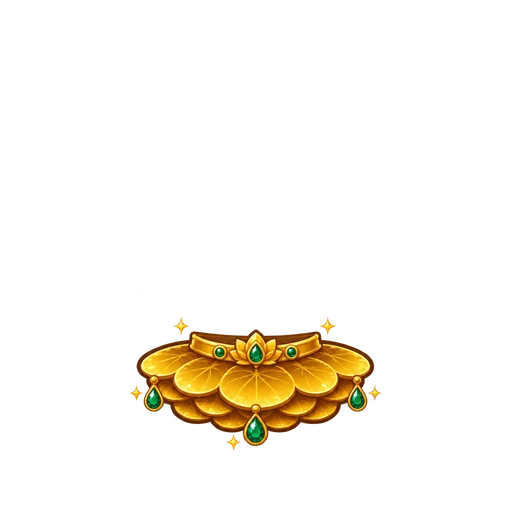
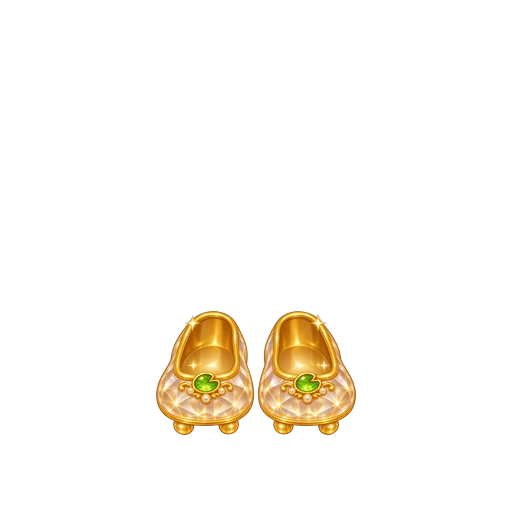
황금 꿀꿀 바지·연잎 치마를 황금 모피 부츠·수정구슬 구두로 교체
- 새 부위 '발'(feet): 상의·하의·한 벌과 함께 신을 수 있음
- 구두는 발 크기에 맞춰 양발에 한 짝씩, 옷 아래에 그리고 앞코만 옷 밑으로 살짝 보이게
- 걸을 때 두 발이 번갈아 들리고 구두도 같이 움직임

Claude-Session: https://claude.ai/code/session_015t7mwg1NEPVKJN39Z7Zz4S

Changed region(s): [[0.25, 0.5938, 0.75, 0.875]]

diff --git a/js/capy.js b/js/capy.js
@@ -51,8 +51,9 @@ let rareN = 0;
 // 가슴에 다는 상징(나머지는 손에 든다)
 export const PIN_CHEST = new Set(['👑', '🥇', '🌈', '🌕', '🌙', '⚓', '🧊', '🫧', '🐚', '🌼', '🪷', '🌻']);
 const RARE_BACK = new Set([17, 19, 27, 28]); // 등 뒤에 그리는 것(날개·가시 망토·꼬리)
-const RARE_BODY = new Set([5, 8, 9, 12, 13, 18, 20, 22, 24, 26]); // 몸에 입는 것(상의·하의·한 벌): 몸 위, 얼굴 아래에 그려서 입은 것처럼 보이게 한다
-const RARE_FIT = { 0: [5, 0, 1], 4: [3, 0, 1], 14: [7, 0, 1], 25: [5, 0, 1], 5: [0, 30, 0.72], 7: [0, 0, 0.72], 10: [0, -25, 0.9], 11: [0, -17, 1], 13: [0, -7, 0.86], 15: [0, -8, 1], 17: [0, -10, 1], 21: [0, -14, 1], 18: [0, -2, 0.95], 20: [0, 6, 1], 26: [0, 6, 1] };
+const RARE_SHOE = new Set([12, 13]); // 발에 신는 것(구두): 발 위에 따로 그린다
+const RARE_BODY = new Set([5, 8, 9, 18, 20, 22, 24, 26]); // 몸에 입는 것(상의·하의·한 벌): 몸 위, 얼굴 아래에 그려서 입은 것처럼 보이게 한다
+const RARE_FIT = { 0: [5, 0, 1], 4: [3, 0, 1], 14: [7, 0, 1], 25: [5, 0, 1], 5: [0, 30, 0.72], 7: [0, 0, 0.72], 10: [0, -25, 0.9], 11: [0, -17, 1], 15: [0, -8, 1], 17: [0, -10, 1], 21: [0, -14, 1], 18: [0, -2, 0.95], 20: [0, 6, 1], 26: [0, 6, 1] };
 const RARE_HOLD = new Set([0, 4, 14, 25]); // 손에 쥐는 것: 자루 위에 손을 한 번 더 그려서 쥔 것처럼 보이게 한다
 export function capy(o = {}) {
   const c = COLORS[o.color] || COLORS.brown;
@@ -65,9 +66,14 @@ export function capy(o = {}) {
     : `<text x="98" y="115" font-size="23" text-anchor="middle" transform="rotate(-12 98 108)">${o.pin}</text><ellipse cx="92" cy="109" rx="5.5" ry="4.5" fill="${c.body}"/>`;
   if (o.head) return `<svg xmlns="http://www.w3.org/2000/svg" viewBox="0 -22 120 112">${head}</svg>`;
   const cl = o.top || o.bottom ? wearSvg(o.top, o.bottom) : { under: '', top: '', over: '' };
-  const body = `<ellipse cx="45" cy="128" rx="12" ry="6.5" fill="${c.dark}"/><ellipse cx="75" cy="128" rx="12" ry="6.5" fill="${c.dark}"/>
+  // 황금 구두: 한 짝 그림을 왼발에, 뒤집어서 오른발에 신긴다. 발과 같은 무리(cf-l·cf-r)라 걸을 때 발과 함께 움직이고, 옷보다 아래에 그려서 옷을 덮지 않는다
+  const shoeK = o.rare && o.rare.i != null && !back ? (o.rare.list || [o.rare.i]).slice(0, 6).find(k => RARE_SHOE.has(k)) : undefined;
+  // 옷 밑으로 앞코가 살짝 나오도록: 구두 전체는 옷 아래에 그리고, 앞코(아래쪽)만 옷 위에 한 번 더 그린다
+  const shoeImg = (y0) => `<g class="cf-l"><image href="img/rare/${shoeK}f.webp" x="32" y="117" width="26" height="22" preserveAspectRatio="none"${y0 ? ` clip-path="url(#${y0})"` : ''}/></g><g class="cf-r"><image href="img/rare/${shoeK}f.webp" x="62" y="117" width="26" height="22" preserveAspectRatio="none" transform="matrix(-1 0 0 1 150 0)"${y0 ? ` clip-path="url(#${y0})"` : ''}/></g>`;
+  const toeId = shoeK == null ? '' : 'st' + (++rareN), shoe = shoeK == null ? '' : shoeImg(''), shoeToe = shoeK == null ? '' : `<defs><clipPath id="${toeId}" clipPathUnits="userSpaceOnUse"><rect x="-20" y="130.5" width="200" height="20"/></clipPath></defs>${shoeImg(toeId)}`;
+  const body = `<g class="cf-l"><ellipse cx="45" cy="128" rx="12" ry="6.5" fill="${c.dark}"/></g><g class="cf-r"><ellipse cx="75" cy="128" rx="12" ry="6.5" fill="${c.dark}"/></g>
     <rect x="31" y="76" width="58" height="50" rx="24" fill="${c.body}"/>
-    ${back ? `<ellipse cx="60" cy="118" rx="6" ry="5" fill="${c.dark}"/>` : `<ellipse cx="60" cy="105" rx="17" ry="15" fill="${c.light}"/>`}${cl.under}
+    ${back ? `<ellipse cx="60" cy="118" rx="6" ry="5" fill="${c.dark}"/>` : `<ellipse cx="60" cy="105" rx="17" ry="15" fill="${c.light}"/>`}${shoe}${cl.under}
     <ellipse cx="29" cy="99" rx="8" ry="12" fill="${c.body}" transform="rotate(14 29 99)"/><ellipse cx="91" cy="99" rx="8" ry="12" fill="${c.body}" transform="rotate(-14 91 99)"/>${cl.top}${cl.over}`;
   // 초레어 보물(친목회 단짝 100점): 동물마다 다른 금빛 장비(모자·안경·상의·하의·한 벌·도구·날개…)를 걸친다. 몸 뒤로 은은한 금빛이 퍼지고 별이 반짝인다
   // 그림은 캐릭터 기준 틀(가로 1024 중 캐릭터 547×720)에 맞춰 그려져 있어 같은 자리에 겹치면 된다. RARE_FIT = 조금씩 어긋난 것만 [옆, 아래, 크기] 보정
@@ -75,9 +81,9 @@ export function capy(o = {}) {
   if (o.rare && o.rare.i != null && !back) { const gid = 'rg' + (++rareN), list = (o.rare.list || [o.rare.i]).slice(0, 6), n = list.length; // 여섯 개까지 함께 걸친다. 많이 걸칠수록 빛이 커진다
     glow = `<defs><radialGradient id="${gid}"><stop offset="0" stop-color="#FFFBD6" stop-opacity=".95"/><stop offset=".5" stop-color="#FFE066" stop-opacity="${Math.min(0.95, 0.5 + n * 0.08)}"/><stop offset="1" stop-color="#FFC93C" stop-opacity="0"/></radialGradient></defs><circle cx="60" cy="74" r="${72 + n * 4}" fill="url(#${gid})"><animate attributeName="r" values="${64 + n * 4};${78 + n * 4};${64 + n * 4}" dur="2.2s" repeatCount="indefinite"/></circle>`;
     list.forEach(k => { const [dx, dy, sc] = RARE_FIT[k] || [0, 0, 1], S = 224.7 * sc, img = `<image href="img/rare/${k}.webp" x="${(60 + dx - S / 2).toFixed(1)}" y="${(57 + dy - S / 2).toFixed(1)}" width="${S.toFixed(1)}" height="${S.toFixed(1)}"/>`;
-      if (RARE_BACK.has(k)) wearB += img; else if (RARE_BODY.has(k)) wearM += img; else gem += img + (RARE_HOLD.has(k) ? `<ellipse cx="${96 + dx * 0.6}" cy="104" rx="7.5" ry="6.5" fill="${c.body}"/><path d="M${91 + dx * 0.6} 101 q5 -3 10 0" fill="none" stroke="${c.dark}" stroke-width="1.4" stroke-linecap="round" opacity=".6"/>` : ''); });
+      if (RARE_SHOE.has(k)) return; if (RARE_BACK.has(k)) wearB += img; else if (RARE_BODY.has(k)) wearM += img; else gem += img + (RARE_HOLD.has(k) ? `<ellipse cx="${96 + dx * 0.6}" cy="104" rx="7.5" ry="6.5" fill="${c.body}"/><path d="M${91 + dx * 0.6} 101 q5 -3 10 0" fill="none" stroke="${c.dark}" stroke-width="1.4" stroke-linecap="round" opacity=".6"/>` : ''); });
     gem += [[4, 62, 0], [116, 50, .6], [10, 126, 1.1], [112, 120, 1.6], [60, -34, .3], [-10, 22, .9], [130, 92, 1.3], [30, -24, .5]].map(([x, y, d]) => `<path d="M${x} ${y - 10} l3 7 7 3 -7 3 -3 7 -3 -7 -7 -3 7 -3z" fill="#FFFDF0" stroke="#F0C24A" stroke-width="1"><animate attributeName="opacity" values="0.15;1;0.15" dur="1.6s" begin="${d}s" repeatCount="indefinite"/></path>`).join(''); }
-  return `<svg xmlns="http://www.w3.org/2000/svg" viewBox="0 -22 120 158"${glow ? ' style="overflow:visible"' : ''}>${glow}${wearB}${body}${wearM}${head}${pin}${gem}</svg>`;
+  return `<svg xmlns="http://www.w3.org/2000/svg" viewBox="0 -22 120 158"${glow ? ' style="overflow:visible"' : ''}>${glow}${wearB}${body}${wearM}${shoeToe}${head}${pin}${gem}</svg>`;
 }
 
 export function capyEl(o = {}, cls = '') {

diff --git a/js/social.js b/js/social.js
@@ -49,14 +49,14 @@ const tubeSvg = (c = '#FF6B6B', part = 'front') => { const ring = `<ellipse cx="
 // 동물마다 다른 보트: 몸 색 선체 + 뱃머리의 귀 + 상징이 그려진 돛
 // 초레어 보물: 단짝(100점)이 된 동물에게서만 1500코인에 산다. 걸치면 몸에서 빛이 나서 지나가는 동물이 모두 칭찬한다
 export const RARE_PRICE = 1500, RARE_AT = 100;
-const RARE_NAMES = ['황금 뼈다귀 왕홀', '황금 고양이귀 티아라', '황금 치즈 방패', '황금 하트 선글라스', '황금 당근 검', '황금 구미호 예복', '황금 꿀단지 왕관', '황금 대나무 선글라스', '황금 모피옷', '황금 호피 갑옷', '황금 사자 갈기 왕관', '황금 뿔 투구', '황금 꿀꿀 바지', '황금 연잎 치마', '황금 여의봉', '황금 볏 투구', '황금 눈꽃 고글', '황금 병아리 날개', '황금 오리 튜브', '황금 부엉이 날개', '황금 늑대 털 조끼', '황금 엄니 투구', '황금 기마 재킷', '황금 유니콘 티아라', '황금 거북 등껍질 갑옷', '황금 문어 삼지창', '황금 세일러 상의', '황금 가시 망토', '황금 다람쥐 꼬리', '황금 너구리 가면'];
+const RARE_NAMES = ['황금 뼈다귀 왕홀', '황금 고양이귀 티아라', '황금 치즈 방패', '황금 하트 선글라스', '황금 당근 검', '황금 구미호 예복', '황금 꿀단지 왕관', '황금 대나무 선글라스', '황금 모피옷', '황금 호피 갑옷', '황금 사자 갈기 왕관', '황금 뿔 투구', '황금 모피 부츠', '황금 수정구슬 구두', '황금 여의봉', '황금 볏 투구', '황금 눈꽃 고글', '황금 병아리 날개', '황금 오리 튜브', '황금 부엉이 날개', '황금 늑대 털 조끼', '황금 엄니 투구', '황금 기마 재킷', '황금 유니콘 티아라', '황금 거북 등껍질 갑옷', '황금 문어 삼지창', '황금 세일러 상의', '황금 가시 망토', '황금 다람쥐 꼬리', '황금 너구리 가면'];
 export const rareName = i => RARE_NAMES[i] || `빛나는 ${ANIMALS[i].name} 보물`;
 // 걸친 보물은 여섯 개까지(자리가 겹치지 않게 다 채우면 여섯). 저장 값은 예전처럼 숫자 하나일 수도, 목록일 수도 있다
 export const RARE_MAX = 6;
 export const rareList = v => (v == null ? [] : Array.isArray(v) ? v : typeof v === 'object' ? Object.values(v) : [v]).map(Number).filter(i => ANIMALS[i] && PERSONA[i]).slice(0, RARE_MAX);
 export const rareOf = v => { const list = rareList(v); return list.length ? { i: list[0], list, e: PERSONA[list[0]].pin, c: ANIMALS[list[0]].body } : null; };
 // 자리: 같은 자리에는 하나만(한 벌은 상의·하의와 같이 못 입는다)
-const RARE_SLOT = { hat: [1, 6, 10, 11, 15, 21, 23], eye: [3, 7, 16, 29], top: [9, 20, 22, 26], bottom: [12, 13, 18], suit: [5, 8, 24], hand: [0, 2, 4, 14, 25], back: [17, 19, 27, 28] };
+const RARE_SLOT = { hat: [1, 6, 10, 11, 15, 21, 23], eye: [3, 7, 16, 29], top: [9, 20, 22, 26], bottom: [18], feet: [12, 13], suit: [5, 8, 24], hand: [0, 2, 4, 14, 25], back: [17, 19, 27, 28] };
 const slotOf = i => Object.keys(RARE_SLOT).find(k => RARE_SLOT[k].includes(i)), clash = (a, b) => { const x = slotOf(a), y = slotOf(b); return x === y || (x === 'suit' && (y === 'top' || y === 'bottom')) || (y === 'suit' && (x === 'top' || x === 'bottom')); };
 // 보물 2~3개: 멋지다·눈부시다·존경한다 (동물마다 다른 말)
 const AWE1 = ['주인님 같은 멋짐이야! 꼬리가 멈추질 않아', '흥, 인정할게. 오늘은 네가 제일 멋져', '찍… 눈이 부셔서 치즈도 안 보여', '볼이 터질 만큼 멋져! 존경해', '귀가 쫑긋 섰어. 너무 눈부셔', '여우인 내가 봐도 반할 만큼 멋져', '곰도 고개 숙일 멋짐이야. 존경해', '대나무보다 네가 더 좋아질 만큼 멋져', '졸다가 깼어… 너무 눈부셔서', '어흥! 이 호랑이가 인정하는 멋짐이야', '밀림의 왕인 나도 존경스러워', '음메… 들판 전체가 환해졌어. 멋져', '꿀꿀! 진흙 속 진주처럼 빛나', '개굴! 연못에 해가 뜬 줄 알았어', '우끼! 바나나보다 눈부셔! 존경해', '꼬끼오! 새벽 해보다 눈부셔', '뒤뚱… 빙하보다 반짝여. 멋져', '삐약! 커서 꼭 너처럼 될래. 존경해', '꽥! 연못 최고의 멋쟁이야', '부엉… 밤눈 밝은 내가 봐도 눈부셔', '아우우! 달보다 네가 더 빛나', '킁킁, 온 숲이 네 멋짐을 알아', '히힝! 달리다 멈춰 설 만큼 멋져', '무지개도 너만큼 빛나진 않아', '느릿느릿… 백 년 살아도 이런 멋짐은 처음이야', '다리 여덟 개로 다 박수 칠게. 멋져', '어흑어흑! 박수! 너무 눈부셔', '가시가 다 눕도록 감동했어. 존경해', '도토리 다 줘도 안 아까울 멋짐이야', '너굴! 훔치고 싶을 만큼 멋져… 농담이야, 존경해'];

diff --git a/css/app.css b/css/app.css
@@ -1260,3 +1260,7 @@ html.fixed-page,html.fixed-page body{overflow:hidden;height:100%;overscroll-beha
 .spect-info { margin: 0 0 8px; padding: 8px 12px; border-radius: 14px; background: #EAF6FF; border: 2px solid #8EC5F0; font: 800 13.5px var(--head); color: #1F5A85; text-align: center; }
 .spect-view { pointer-events: none; user-select: none; }
 .spect-view img { max-width: 100%; height: auto; }
+/* 걸을 때 두 발이 번갈아 들린다. 황금 구두도 같은 무리라 함께 움직인다 */
+.walk .cf-l, .walk .cf-r { animation: cfStep .32s ease-in-out infinite; }
+.walk .cf-r { animation-delay: -.16s; }
+@keyframes cfStep { 0%, 100% { transform: translateY(0); } 50% { transform: translateY(-3px); } }
